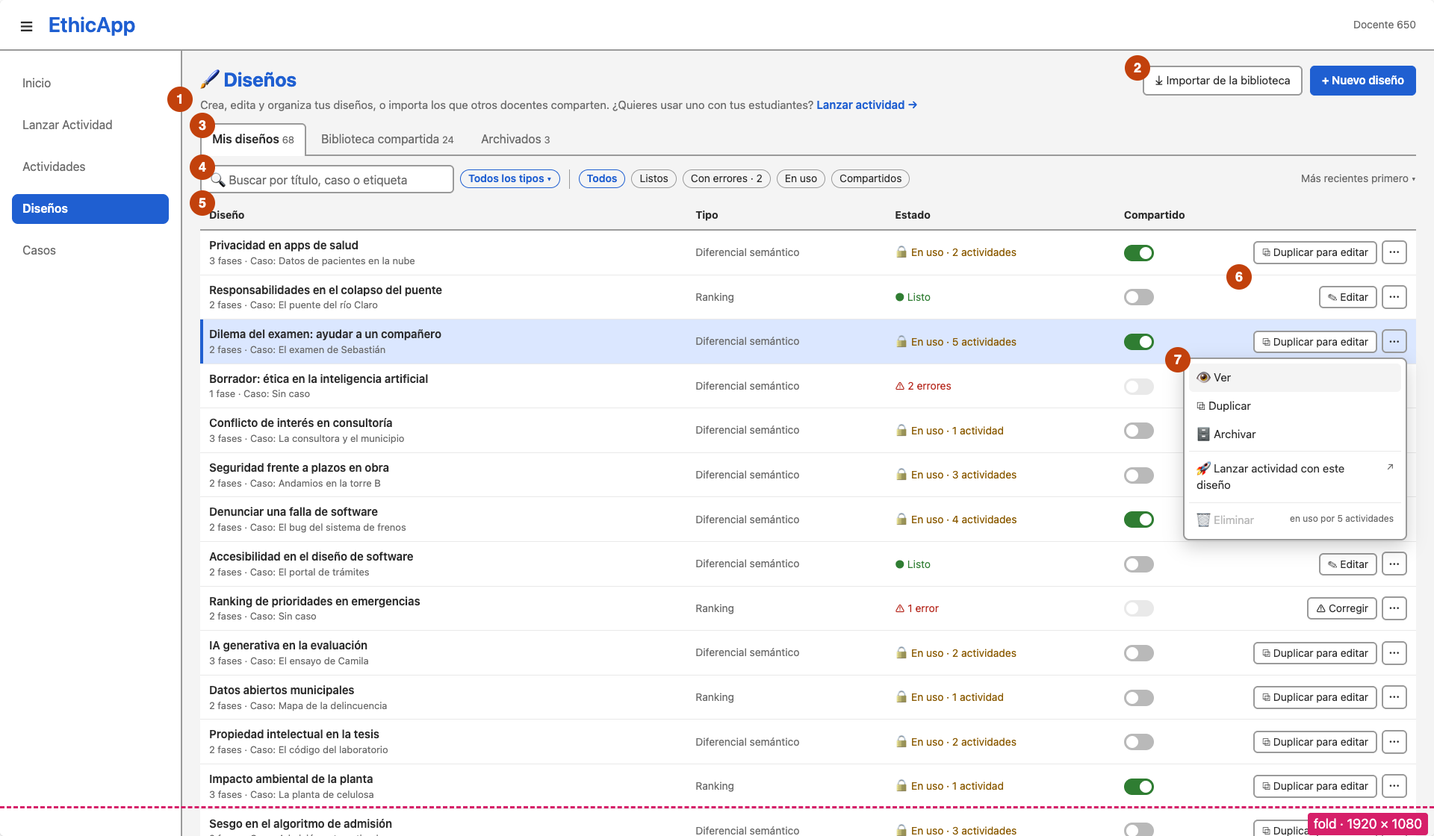
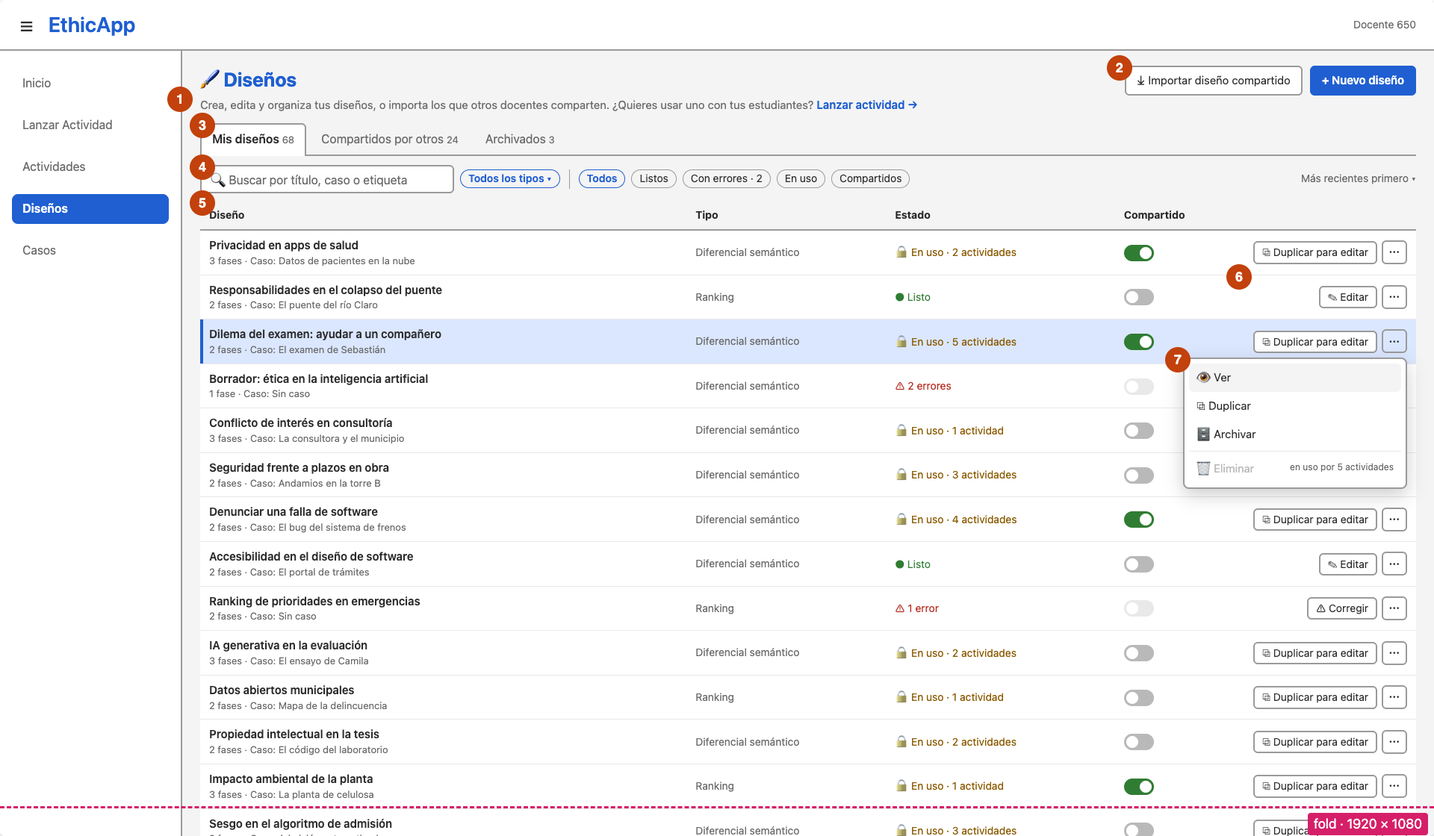
Apply the designs page decisions
Diseños has no launch action, the tab of others' designs is
"Compartidos por otros", a row's title opens the design's view, and a
design that has copies can be deleted (#963).

diff --git a/docs/design/designs-index/wireframes.html b/docs/design/designs-index/wireframes.html
@@ -153,18 +153,18 @@
   <table class="roles">
     <tr><th></th><th>Diseños (this proposal)</th><th>Lanzar actividad (<code>docs/design/launch-activity-wizard</code>)</th></tr>
     <tr><td><b>Job</b></td><td>Create, edit, organize and share designs; import designs other teachers shared.</td><td>Choose one design and start an activity with it.</td></tr>
-    <tr><td><b>What it lists</b></td><td>All the teacher's designs, including those with errors; the shared library; the archived designs.</td><td>Only the teacher's designs that can be launched.</td></tr>
-    <tr><td><b>Shape</b></td><td>A table: status, sharing and edit actions on every row; tabs for mine, library and archived.</td><td>A two-step wizard: rows with a radio button, a preview, and a fixed bar with "Siguiente".</td></tr>
-    <tr><td><b>Primary action</b></td><td>"Nuevo diseño"; per row, "Editar" (or "Corregir", "Duplicar para editar"); in the library, "Importar".</td><td>"Lanzar actividad".</td></tr>
-    <tr><td><b>Bridge to the other</b></td><td>The role line links to Lanzar actividad. Each row's menu has "Lanzar actividad con este diseño", which opens the wizard on step 2.</td><td>The list's footer links to Diseños with the "Con errores" filter.</td></tr>
+    <tr><td><b>What it lists</b></td><td>All the teacher's designs, including those with errors; the designs other teachers shared; the archived designs.</td><td>Only the teacher's designs that can be launched.</td></tr>
+    <tr><td><b>Shape</b></td><td>A table: status, sharing and edit actions on every row; tabs for mine, shared by others and archived.</td><td>A two-step wizard: rows with a radio button, a preview, and a fixed bar with "Siguiente".</td></tr>
+    <tr><td><b>Primary action</b></td><td>"Nuevo diseño"; per row, "Editar" (or "Corregir", "Duplicar para editar"); in "Compartidos por otros", "Importar".</td><td>"Lanzar actividad".</td></tr>
+    <tr><td><b>Bridge to the other</b></td><td>The role line links to Lanzar actividad. Rows have no launch action.</td><td>The list's footer links to Diseños with the "Con errores" filter.</td></tr>
   </table>
 
-  <div class="open"><b>Open questions</b> (see the README):
+  <div class="open"><b>Decisions, 2026-11-01</b> (see the README):
     <ul>
-      <li>Should "Lanzar actividad con este diseño" stay in the row's menu, or leave Diseños altogether?</li>
-      <li>Tab name for others' designs: "Biblioteca compartida", "Compartidos por otros docentes", or keep "De otros"?</li>
-      <li>Should a row click open the design's view (drawn) or its editor?</li>
-      <li>Deleting a design that has copies: allow it and keep the copies' attribution, or refuse it with a message? Today it fails with a 500 and the page says nothing.</li>
+      <li>Diseños has no launch action: "Lanzar actividad con este diseño" left the row menu.</li>
+      <li>The tab of others' designs is "Compartidos por otros".</li>
+      <li>A click on a row's title opens the design's view, not the editor.</li>
+      <li>A design that has copies can be deleted; the copies keep their source title, author and license (#963).</li>
     </ul>
   </div>
 
@@ -181,17 +181,17 @@
   <div id="A"></div>
   <ol class="notes">
     <li><b>The page says what it is for.</b> "Crea, edita y organiza tus diseños, o importa los que otros docentes comparten." and, next to it, the way out for the other task: "¿Quieres usar uno con tus estudiantes? Lanzar actividad →".</li>
-    <li><b>Page actions:</b> "+ Nuevo diseño" (primary) and "Importar de la biblioteca", which opens the library tab.</li>
-    <li><b>Tabs with counts:</b> "Mis diseños", "Biblioteca compartida", "Archivados" (today "Tuyos", "De otros", "Archivadas"). The tab is part of the URL, so links can open one directly.</li>
+    <li><b>Page actions:</b> "+ Nuevo diseño" (primary) and "Importar diseño compartido", which opens the "Compartidos por otros" tab.</li>
+    <li><b>Tabs with counts:</b> "Mis diseños", "Compartidos por otros", "Archivados" (today "Tuyos", "De otros", "Archivadas"). The tab is part of the URL, so links can open one directly.</li>
     <li><b>Filters for management, not for launching:</b> search over title, case and tags; type; status ("Listos", "Con errores", "En uso", "Compartidos"). The order is stated: "Más recientes primero".</li>
     <li><b>One table row per design</b>, 12 on the first screen against one card today:
       <ul>
-        <li><b>Diseño:</b> title, with the case and the number of phases under it. A click on the title opens the design's view.</li>
+        <li><b>Diseño:</b> title, with the case and the number of phases under it. A click on the title opens the design's view, not the editor.</li>
         <li><b>Estado:</b> "● Listo"; "⚠ 2 errores", which cannot be launched yet; or "🔒 En uso · 3 actividades", which cannot be edited or deleted. The lock and error lines of today's card become this one column.</li>
-        <li><b>Compartido:</b> the switch that shares the design in the library, as today's "Compartir Diseño". A design with errors cannot be shared, so its switch is disabled.</li>
+        <li><b>Compartido:</b> the switch that shares the design with other teachers, as today's "Compartir Diseño". A design with errors cannot be shared, so its switch is disabled.</li>
       </ul></li>
     <li><b>One visible action per row, the one that fits its state:</b> "Editar" for a ready design, "Corregir" for one with errors, "Duplicar para editar" for one in use. Everything else is in the row's "⋯" menu.</li>
-    <li><b>The row menu</b> (open on the third row): Ver, Duplicar, Archivar, "Lanzar actividad con este diseño ↗", and Eliminar, in red and last. For a design in use, Eliminar is disabled and says why: "en uso por 3 actividades".</li>
+    <li><b>The row menu</b> (open on the third row): Ver, Duplicar, Archivar, and Eliminar, in red and last. It has no launch entry: launching starts from Lanzar actividad. For a design in use, Eliminar is disabled and says why: "en uso por 3 actividades".</li>
   </ol>
 
   <h2>B. 1366 × 768: designs with errors</h2>
@@ -203,11 +203,11 @@
     <li>At this width the type moves under the title; the columns are Diseño, Estado, Compartido and the actions.</li>
   </ol>
 
-  <h2>C. 1366 × 768: the shared library, after an import</h2>
+  <h2>C. 1366 × 768: designs shared by others, after an import</h2>
   <p class="metrics" data-metrics="C"></p>
   <div id="C"></div>
   <ol class="notes">
-    <li><b>What the library is, in one line:</b> designs other teachers shared; importing one creates a private, editable copy in Mis diseños, and the original does not change.</li>
+    <li><b>What the tab holds, in one line:</b> designs other teachers shared; importing one creates a private, editable copy in Mis diseños, and the original does not change.</li>
     <li><b>Rows show what matters to decide an import:</b> author, case, license and type. The case is public, since a shared design needs a public case.</li>
     <li><b>"Importar" is the row's only action.</b> A design already imported shows "Importado · Ver copia" instead, so it is not imported twice by mistake.</li>
     <li><b>A design that can no longer be imported</b> because its case stopped being public says so, with the button disabled.</li>
@@ -218,7 +218,7 @@
   <p class="metrics" data-metrics="D"></p>
   <div id="D"></div>
   <ol class="notes">
-    <li><b>Eliminar asks for confirmation.</b> Today the button deletes at once. The dialog names the design and says it cannot be undone; the confirm button repeats the action, "Eliminar diseño".</li>
+    <li><b>Eliminar asks for confirmation.</b> Today the button deletes at once. The dialog names the design and says it cannot be undone; the confirm button repeats the action, "Eliminar diseño". Copies of the design stay, with their source title, author and license (#963).</li>
     <li>It suggests the reversible alternative: "Si solo quieres quitarlo de la vista, archívalo."</li>
   </ol>
 
@@ -258,7 +258,7 @@
     { t: "Transparencia en reportes financieros", cs: "El balance del trimestre", type: "Diferencial semántico", ph: 2, st: "ok", shared: false },
     { t: "Conflictos en el equipo de proyecto", cs: "La entrega atrasada", type: "Diferencial semántico", ph: 2, st: "use", uses: 3, shared: false },
   ];
-  const LIBRARY = [
+  const SHARED = [
     { t: "Dilemas de privacidad en redes sociales", by: "Prof. Andrea Rojas", cs: "La foto viral", lic: "CC BY-SA 4.0", type: "Diferencial semántico", ph: 3, state: "new" },
     { t: "Ingeniería y comunidades indígenas", by: "Prof. Tomás Pérez", cs: "La represa del valle", lic: "CC BY 4.0", type: "Ranking", ph: 2, state: "imported" },
     { t: "Algoritmos de contratación", by: "Prof. Lucía Herrera", cs: "El filtro de currículums", lic: "CC BY-SA 4.0", type: "Diferencial semántico", ph: 2, state: "new" },
@@ -297,27 +297,27 @@
       <div class="row2">${status(d)}<span class="sub">Compartido ${share(d)}</span><span style="flex:1"></span>${mainAction(d)}<span class="kebab">⋯</span></div></div>`).join("")}</div>`;
   }
 
-  function libraryTable() {
+  function sharedTable() {
     const act = (d) => d.state === "imported" ? '<span class="st ok">✓ Importado</span> <span class="btn sm ghost">Ver copia</span>'
       : d.state === "blocked" ? '<span class="btn sm disabled">Importar</span><div class="sub" style="font-size:12px">Su caso dejó de ser público</div>'
       : '<span class="btn sm">⤓ Importar</span>';
-    const body = LIBRARY.map((d) => `<tr><td class="t"><div class="title">${d.t}</div><div class="meta">${d.type} · ${d.ph} ${d.ph === 1 ? "fase" : "fases"} · Caso: ${d.cs}</div></td>
+    const body = SHARED.map((d) => `<tr><td class="t"><div class="title">${d.t}</div><div class="meta">${d.type} · ${d.ph} ${d.ph === 1 ? "fase" : "fases"} · Caso: ${d.cs}</div></td>
       <td class="sub">${d.by}</td><td class="sub">${d.lic}</td><td class="acts" style="text-align:right">${act(d)}</td></tr>`).join("");
     return `<table class="dt" data-role="designs"><thead><tr><th>Diseño</th><th>Autor</th><th>Licencia</th><th></th></tr></thead><tbody>${body}</tbody></table>`;
   }
 
   function page({ tab, narrow, one, filter, rows }) {
-    const counts = { mine: 68, library: 24, archived: 3 };
+    const counts = { mine: 68, others: 24, archived: 3 };
     const tabs = `<div class="tabs"><span class="tab${tab === "mine" ? " on" : ""}">Mis diseños<span class="count">${counts.mine}</span></span>
-      <span class="tab${tab === "library" ? " on" : ""}">Biblioteca compartida<span class="count">${counts.library}</span></span>
+      <span class="tab${tab === "shared" ? " on" : ""}">Compartidos por otros<span class="count">${counts.others}</span></span>
       <span class="tab${tab === "archived" ? " on" : ""}">Archivados<span class="count">${counts.archived}</span></span></div>`;
     const head = `<div class="head"><div class="titles"><h3>🖌 Diseños</h3><div class="role">Crea, edita y organiza tus diseños, o importa los que otros docentes comparten. ¿Quieres usar uno con tus estudiantes? <a>Lanzar actividad →</a></div></div>
-      <div class="acts"><span class="btn">⤓ Importar de la biblioteca</span><span class="btn primary">+ Nuevo diseño</span></div></div>`;
-    if (tab === "library") {
+      <div class="acts"><span class="btn">⤓ Importar diseño compartido</span><span class="btn primary">+ Nuevo diseño</span></div></div>`;
+    if (tab === "shared") {
       return head + tabs
         + '<div class="banner lib">Diseños que otros docentes compartieron. Al importar uno se crea una <b>copia privada y editable</b> en Mis diseños; el original no cambia.</div>'
         + '<div class="tools"><span class="search">🔍 Buscar por título, autor, caso o etiqueta</span><span class="chip on">Todos</span><span class="chip">Diferencial semántico</span><span class="chip">Ranking</span><span class="sub sort">Más recientes primero ▾</span></div>'
-        + libraryTable();
+        + sharedTable();
     }
     const st = (k, label) => `<span class="chip${filter === k ? " on" : ""}" data-k="${k}">${label}</span>`;
     const tools = `<div class="tools"><span class="search">🔍 Buscar por título, caso o etiqueta</span>
@@ -382,7 +382,6 @@
       const d = MINE[2];
       f.insertAdjacentHTML("beforeend", `<div class="menu" style="left:${Math.round(k.left + k.width - 300)}px; top:${Math.round(k.top + k.height + 6)}px">
         <div class="mi focus">👁 Ver</div><div class="mi">⧉ Duplicar</div><div class="mi">🗄 Archivar</div><hr>
-        <div class="mi">🚀 Lanzar actividad con este diseño <small>↗</small></div><hr>
         <div class="mi dis">🗑 Eliminar <small>en uso por ${d.uses} actividades</small></div></div>`);
     }
     if (overlay === "import-toast") {
@@ -394,7 +393,7 @@
       const mw = 520;
       f.insertAdjacentHTML("beforeend", `<div class="modal" role="dialog" style="left:${Math.round((width - mw) / 2 + (appNav ? 122 : 0))}px; top:${Math.round(height / 2 - 140)}px">
         <div class="mh">¿Eliminar "Ética del trabajo remoto"?</div>
-        <div class="mb">Se borrará definitivamente, con sus fases y preguntas. No se puede deshacer.<br><span class="sub">Si solo quieres quitarlo de la vista, archívalo.</span></div>
+        <div class="mb">Se borrará definitivamente, con sus fases y preguntas. No se puede deshacer. Las copias de este diseño se conservan.<br><span class="sub">Si solo quieres quitarlo de la vista, archívalo.</span></div>
         <div class="mf"><span class="btn">Archivar en su lugar</span><span class="btn">Cancelar</span><span class="btn danger">Eliminar diseño</span></div></div>`);
     }
 
@@ -425,10 +424,10 @@
     notes: [[".head .role", 1, -30], [".head .acts", 2, -10], [".tabs", 3], [".tools", 4], ['[data-role="designs"] thead', 5], ['[data-role="designs"] tbody tr:nth-child(2) .acts', 6, -10], [".menu", 7, -10]] });
   frame("B", { width: 1366, height: 768, appNav: true, tab: "mine", narrow: true, filter: "errors",
     notes: [['[data-k="errors"]', 1], ['[data-role="designs"] tbody tr .acts', 2, -10], ['[data-role="designs"] thead', 3]] });
-  frame("C", { width: 1366, height: 768, appNav: true, tab: "library", overlay: "import-toast",
+  frame("C", { width: 1366, height: 768, appNav: true, tab: "shared", overlay: "import-toast",
     notes: [[".banner", 1], ['[data-role="designs"] thead', 2], ['[data-role="designs"] tbody tr:nth-child(1) .acts', 3, -10], ['[data-role="designs"] tbody tr:nth-child(5) .acts', 4, -10], [".toast", 5]] });
   frame("D", { width: 1366, height: 768, appNav: true, tab: "mine", narrow: true, rows: 14, overlay: "delete",
-    notes: [[".modal .mh", 1], [".modal .mb .sub", 2]] });
+    notes: [[".modal .mh", 1], [".modal .mb .sub", 2, -16]] });
   frame("E", { width: 1024, height: 768, appNav: false, tab: "mine", one: true, rows: 8,
     notes: [[".head", 1], ['[data-role="designs"] > .card:nth-child(1)', 2]] });
 </script>

diff --git a/docs/design/designs-index/README.md b/docs/design/designs-index/README.md
@@ -9,7 +9,7 @@ Files:
 - `wireframes.html` draws the frames at their real viewport size, with the fold marked and numbered notes. It has no dependencies; open it in a browser.
   - A shows "Mis diseños" at 1920 × 1080, with a row menu open.
   - B shows the designs with errors at 1366 × 768.
-  - C shows the shared library after an import, at 1366 × 768.
+  - C shows "Compartidos por otros" after an import, at 1366 × 768.
   - D shows the delete confirmation at 1366 × 768.
   - E shows the page in one column at 1024 × 768.
   - `wireframes.html?frame=A`, and likewise for B to E, renders one frame alone at its real size.
@@ -47,7 +47,7 @@ The page was measured with headless Chrome. The numbers are the same at 1920 and
 
 **Safety and feedback.**
 - "Eliminar" deletes at once, without asking.
-- "Eliminar" fails silently for a design that has copies. `designs.original_design_id` and `designs.imported_from_design_id` reference the original without `ON DELETE`, so deleting it answers `500 Internal Server Error` (`designs_original_design_id_fkey`). The page only logs the error to the console, and the design stays in the list. Measured on the local stack: duplicate a design, then delete the original. This happens to every design the teacher ever duplicated, and to a shared design another teacher imported, whose author can then no longer delete it. A design used by an activity would fail the same way (`activity_design_fkey`), but the page hides "Eliminar" for those.
+- "Eliminar" fails silently for a design that has copies. `designs.original_design_id` and `designs.imported_from_design_id` reference the original without `ON DELETE`, so deleting it answers `500 Internal Server Error` (`designs_original_design_id_fkey`). The page only logs the error to the console, and the design stays in the list. Measured on the local stack: duplicate a design, then delete the original. This happens to every design the teacher ever duplicated, and to a shared design another teacher imported, whose author can then no longer delete it (#963). A design used by an activity would fail the same way (`activity_design_fkey`), but the page hides "Eliminar" for those.
 - "Duplicar" gives no feedback; the copy just appears in the list.
 - Importing shows "Diseño importado en tu colección" for 100 seconds, without saying which copy or offering to open it.
 - "Ver" leaves the page, and coming back loses the search and the page number.
@@ -59,22 +59,22 @@ The page was measured with headless Chrome. The numbers are the same at 1920 and
 | | Diseños | Lanzar actividad |
 | --- | --- | --- |
 | Job | Create, edit, organize and share designs; import designs other teachers shared | Choose one design and start an activity with it |
-| What it lists | All the teacher's designs, including those with errors; the shared library; the archived designs | Only the teacher's designs that can be launched |
-| Shape | A table with status, sharing and edit actions on every row, and tabs for mine, library and archived | A two-step wizard: rows with a radio button, a preview, and a fixed bar with "Siguiente" |
-| Primary action | "Nuevo diseño"; per row, "Editar", "Corregir" or "Duplicar para editar"; in the library, "Importar" | "Lanzar actividad" |
-| Bridge to the other | The role line links to Lanzar actividad. Each row's menu has "Lanzar actividad con este diseño", which opens the wizard on step 2 | The list's footer links here, with the "Con errores" filter |
+| What it lists | All the teacher's designs, including those with errors; the designs other teachers shared; the archived designs | Only the teacher's designs that can be launched |
+| Shape | A table with status, sharing and edit actions on every row, and tabs for mine, shared by others and archived | A two-step wizard: rows with a radio button, a preview, and a fixed bar with "Siguiente" |
+| Primary action | "Nuevo diseño"; per row, "Editar", "Corregir" or "Duplicar para editar"; in "Compartidos por otros", "Importar" | "Lanzar actividad" |
+| Bridge to the other | The role line links to Lanzar actividad. Rows have no launch action | The list's footer links here, with the "Con errores" filter |
 
 ### Page head (frame A)
 
 - **Title:** "Diseños", the side menu's label, instead of "Diseños de Actividades".
 - **A role line** says what the page is for and where the other task lives: "Crea, edita y organiza tus diseños, o importa los que otros docentes comparten. ¿Quieres usar uno con tus estudiantes? Lanzar actividad →".
-- **Page actions:** "+ Nuevo diseño" (primary) and "Importar de la biblioteca", which opens the library tab.
+- **Page actions:** "+ Nuevo diseño" (primary) and "Importar diseño compartido", which opens the "Compartidos por otros" tab.
 - "Volver" goes away; the side menu and the browser already go back.
 
 ### Tabs
 
-- The tabs are "Mis diseños", "Biblioteca compartida" and "Archivados", each with a count.
-- The tab and the filters are part of the URL (`#!/designs?tab=library`, `#!/designs?status=errors`). Other pages can link to a tab or a filter, and coming back from a design restores them.
+- The tabs are "Mis diseños", "Compartidos por otros" and "Archivados", each with a count. "Compartidos por otros" says whose designs they are; "Biblioteca compartida" could be read as the teacher's own shared designs.
+- The tab and the filters are part of the URL (`#!/designs?tab=shared`, `#!/designs?status=errors`). Other pages can link to a tab or a filter, and coming back from a design restores them.
 
 ### Mis diseños (frames A, B, E)
 
@@ -85,7 +85,7 @@ The page was measured with headless Chrome. The numbers are the same at 1920 and
 - The order is stated: "Más recientes primero".
 
 **One row per design**
-- **Diseño:** the title, with the number of phases and the case under it. The title opens the design's view.
+- **Diseño:** the title, with the number of phases and the case under it. The title opens the design's view, not the editor: the row's visible action is the way to edit.
 - **Tipo:** a column of its own from 1200 px; at 1366 px it moves under the title.
 - **Estado:** one of
   - "● Listo": it can be launched and edited;
@@ -93,7 +93,7 @@ The page was measured with headless Chrome. The numbers are the same at 1920 and
   - "🔒 En uso · n actividades": it cannot be edited or deleted.
 
   This one column replaces today's validity and lock sentences.
-- **Compartido:** the switch that shares the design in the library, as today's "Compartir Diseño", with the same checks on its case. A design with errors cannot be shared, so its switch is disabled.
+- **Compartido:** the switch that shares the design with other teachers, who see it in their "Compartidos por otros" tab, as today's "Compartir Diseño", with the same checks on its case. A design with errors cannot be shared, so its switch is disabled.
 - 12 rows fit on the first screen at 1920 × 1080.
 
 **One visible action per row, chosen by its state**
@@ -103,7 +103,7 @@ The page was measured with headless Chrome. The numbers are the same at 1920 and
 
 **The row's "⋯" menu**
 - It holds Ver, Duplicar and Archivar.
-- Then "🚀 Lanzar actividad con este diseño ↗", which opens the wizard on step 2.
+- It has no launch entry. Launching starts from Lanzar actividad, so each page does one job.
 - Then Eliminar, in red and last. For a design in use it is disabled and says why: "en uso por n actividades".
 
 **Footer**
@@ -114,9 +114,9 @@ The page was measured with headless Chrome. The numbers are the same at 1920 and
 - "Con errores" is where the launch wizard's "Revisar en Diseños" lands.
 - Each row says how many errors it has and offers "Corregir".
 
-### Biblioteca compartida (frame C)
+### Compartidos por otros (frame C)
 
-- **A one-line banner explains the library:** "Diseños que otros docentes compartieron. Al importar uno se crea una copia privada y editable en Mis diseños; el original no cambia."
+- **A one-line banner explains the tab:** "Diseños que otros docentes compartieron. Al importar uno se crea una copia privada y editable en Mis diseños; el original no cambia."
 - **Columns:** design (type, phases, case), author and license.
 - **"⤓ Importar" is the row's only action.**
   - A design the teacher already imported shows "✓ Importado · Ver copia" instead, so it is not imported twice by mistake.
@@ -130,7 +130,8 @@ The page was measured with headless Chrome. The numbers are the same at 1920 and
 
 ### Deleting asks first (frame D)
 
-- Eliminar opens a dialog: "¿Eliminar "<título>"? Se borrará definitivamente, con sus fases y preguntas. No se puede deshacer."
+- Eliminar opens a dialog: "¿Eliminar "<título>"? Se borrará definitivamente, con sus fases y preguntas. No se puede deshacer. Las copias de este diseño se conservan."
+- Copies, the teacher's own or other teachers' imports, keep their title, author and license of origin (#963).
 - The buttons are "Archivar en su lugar", "Cancelar" and "Eliminar diseño" (red).
 
 ### Feedback
@@ -153,14 +154,14 @@ Each notice disappears after a few seconds and can be dismissed.
 | Today | Proposal |
 | --- | --- |
 | "Diseños de Actividades", "Volver" | "Diseños" and a role line linking to Lanzar actividad |
-| "Crear un diseño" | "+ Nuevo diseño", top right, with "Importar de la biblioteca" |
-| The sentence about importing, on every tab | The library's banner, on that tab only |
-| Tabs "Tuyos", "De otros", "Archivadas" | "Mis diseños", "Biblioteca compartida", "Archivados", with counts |
+| "Crear un diseño" | "+ Nuevo diseño", top right, with "Importar diseño compartido" |
+| The sentence about importing, on every tab | The banner of "Compartidos por otros", on that tab only |
+| Tabs "Tuyos", "De otros", "Archivadas" | "Mis diseños", "Compartidos por otros", "Archivados", with counts |
 | 376 px `design-item` card, 5 per page | Table row, "Mostrar más" |
 | Validity and lock sentences | The Estado column |
 | Visibility line and the "Compartir Diseño" On/Off switch | The Compartido column's switch |
-| License line | The library's Licencia column; in Mis diseños, in the design's view |
-| "Lanzar Actividad" as the first button | The row menu's "Lanzar actividad con este diseño ↗" |
+| License line | The Licencia column of "Compartidos por otros"; in Mis diseños, in the design's view |
+| "Lanzar Actividad" as the first button | Removed; the role line links to Lanzar actividad |
 | "Editar", "Duplicar", "Archivar", "Eliminar", "Ver" | One visible action by state; the rest in the "⋯" menu |
 | "Eliminar" without confirmation | A confirmation dialog, with "Archivar en su lugar" |
 | "Importar diseño" | "Importar"; "Importado · Ver copia" once imported; disabled with the reason when it cannot be |
@@ -179,8 +180,8 @@ Each notice disappears after a few seconds and can be dismissed.
 **Sharing**
 - The switch keeps `DesignPublicationService.togglePublicVisibility`, including the case publication dialog (#942).
 
-**Library**
-- "Importado" comes from the teacher's own designs whose `imported_from_design_id` (or `original_design_id`) is the library design.
+**Compartidos por otros**
+- "Importado" comes from the teacher's own designs whose `imported_from_design_id` (or `original_design_id`) is the shared design. After #963 these links can be null, when the shared design was deleted; such a copy simply has no shared design to match.
 - Knowing beforehand that a design cannot be imported needs the list to say so. For example, `GET /designs` adds an `importable` flag computed from the case's visibility, instead of the `DESIGN_CASE_NOT_IMPORTABLE` error after the click.
 
 **Duplicate and import**
@@ -188,23 +189,17 @@ Each notice disappears after a few seconds and can be dismissed.
 
 **Delete**
 - The dialog uses the app's existing modal service.
-- `DELETE /designs/:id` checks nothing today, and the foreign keys turn a refused delete into a 500. It should answer a coded 409 instead: `DESIGN_IN_USE` for a design an activity uses. The page then shows the reason, as the disabled menu entry does beforehand.
-- A design that has copies needs a decision (open question 4). Today it simply cannot be deleted, and nothing says why.
+- #963 fixes the delete itself, and this page builds on it: copies no longer block deleting their original (`ON DELETE SET NULL`), a design an activity uses is refused with a coded 409, `DESIGN_IN_USE`, and a failed delete shows its reason instead of failing silently.
 
 **Translations**
 - New keys in `es_CL` and `en_US`. "Archivadas" becomes "Archivados".
 
-## Open questions
+## Decisions
 
-1. **"Lanzar actividad con este diseño" in the row menu.**
-   - Keeping it there gives a shortcut, from a design just written, to launching it.
-   - Removing it altogether would draw the line between the pages more sharply: Diseños only manages, Lanzar actividad only launches.
-2. **The name of the library tab:** "Biblioteca compartida" (drawn), "Compartidos por otros docentes", or keep "De otros"?
-3. **What a click on a row's title opens:** the design's view (drawn) or its editor?
-4. **Deleting a design that has copies.**
-   - Option one: allow it. The copies' `original_design_id` and `imported_from_design_id` become null (`ON DELETE SET NULL`, in a migration). The copies keep `source_design_title`, `source_design_author` and `source_design_license_code`, so their attribution survives.
-   - Option two: refuse it with a coded 409 and a message ("Hay copias de este diseño"), and offer to archive it instead.
-   - Today it fails with a 500 and no message, whatever is decided.
+- **2026-11-01: Diseños has no launch action.** The row menu's "Lanzar actividad con este diseño" is removed, so Diseños only manages and Lanzar actividad only launches. The role line still links to Lanzar actividad.
+- **2026-11-01: the tab of others' designs is "Compartidos por otros".** "Biblioteca compartida" could be read as the teacher's own shared designs.
+- **2026-11-01: a click on a row's title opens the design's view,** not the editor.
+- **2026-11-01: a design that has copies can be deleted.** The copies keep all their source metadata: `source_design_title`, `source_design_author` and `source_design_license_code`. The fix is tracked in #963.
 
 ## Out of scope
 
